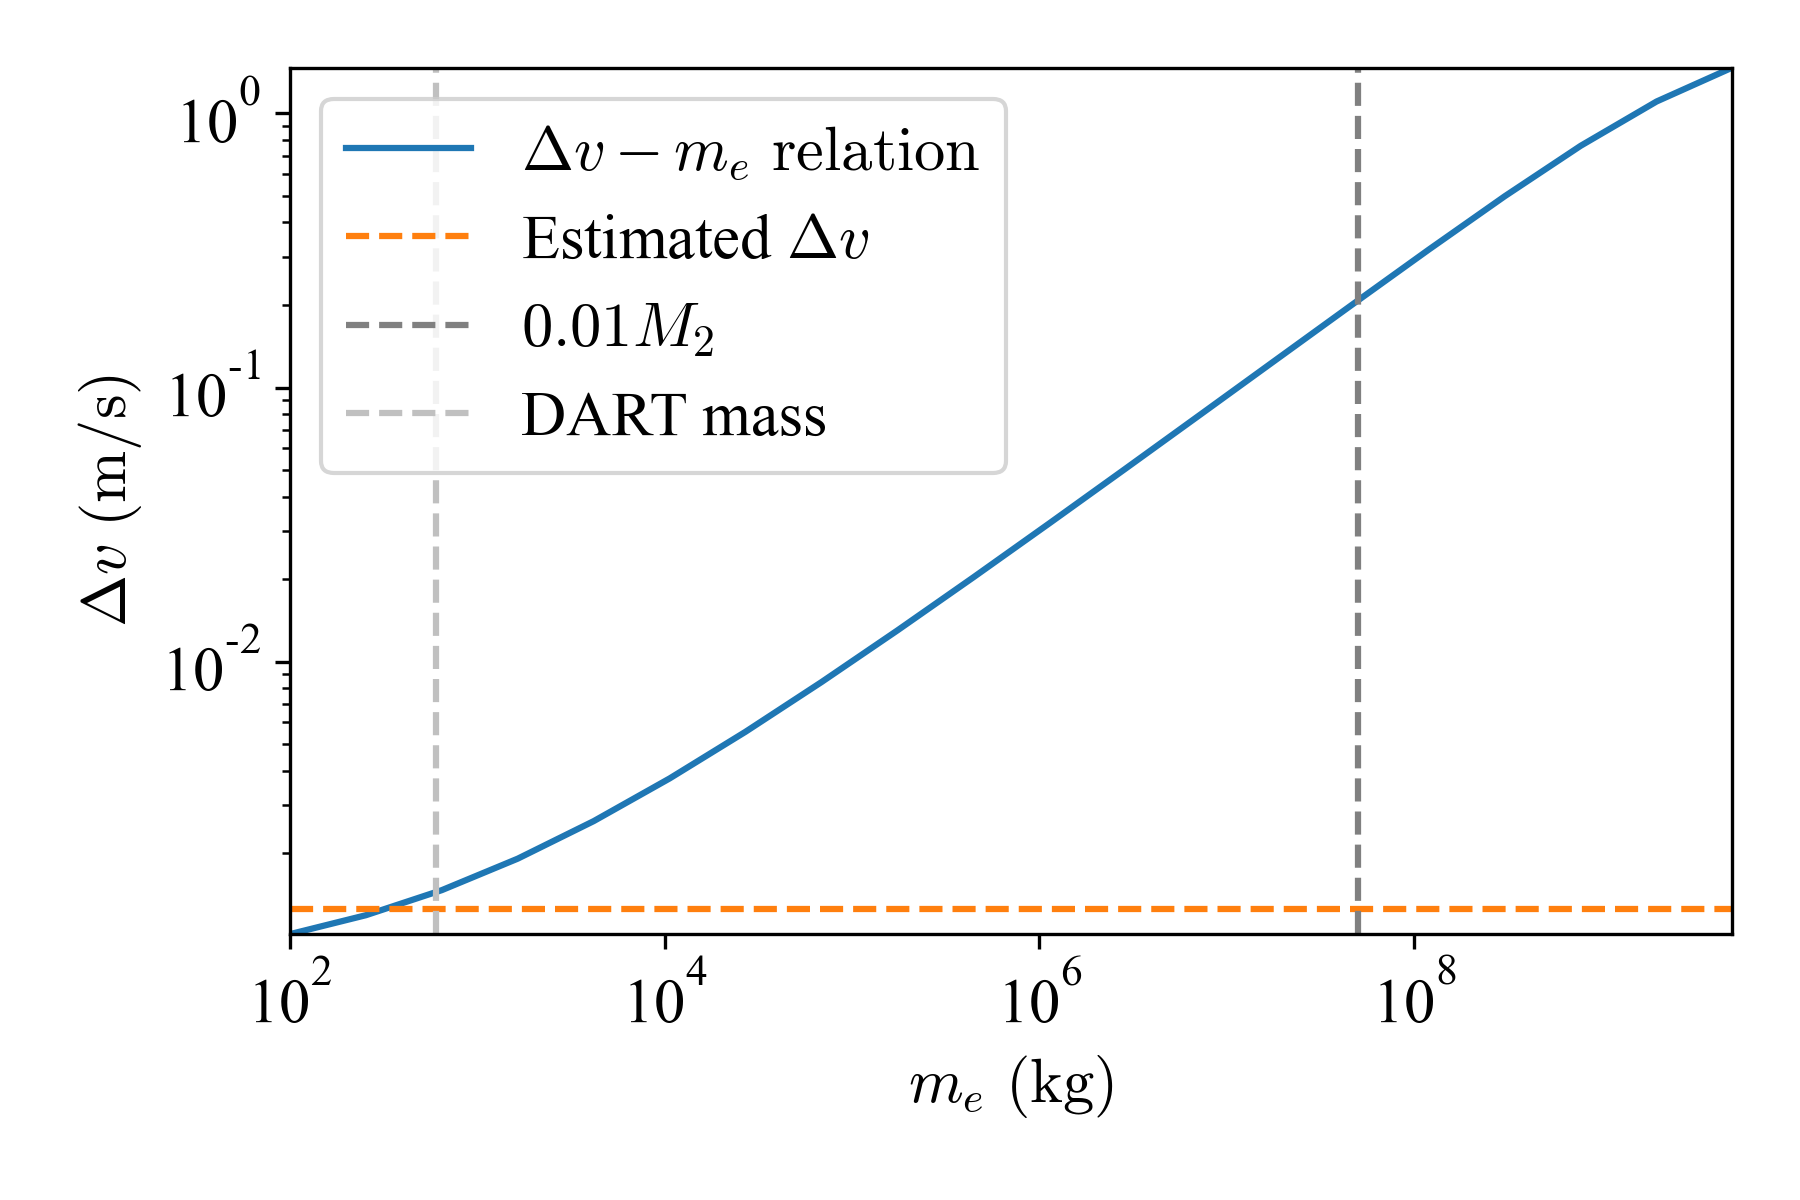
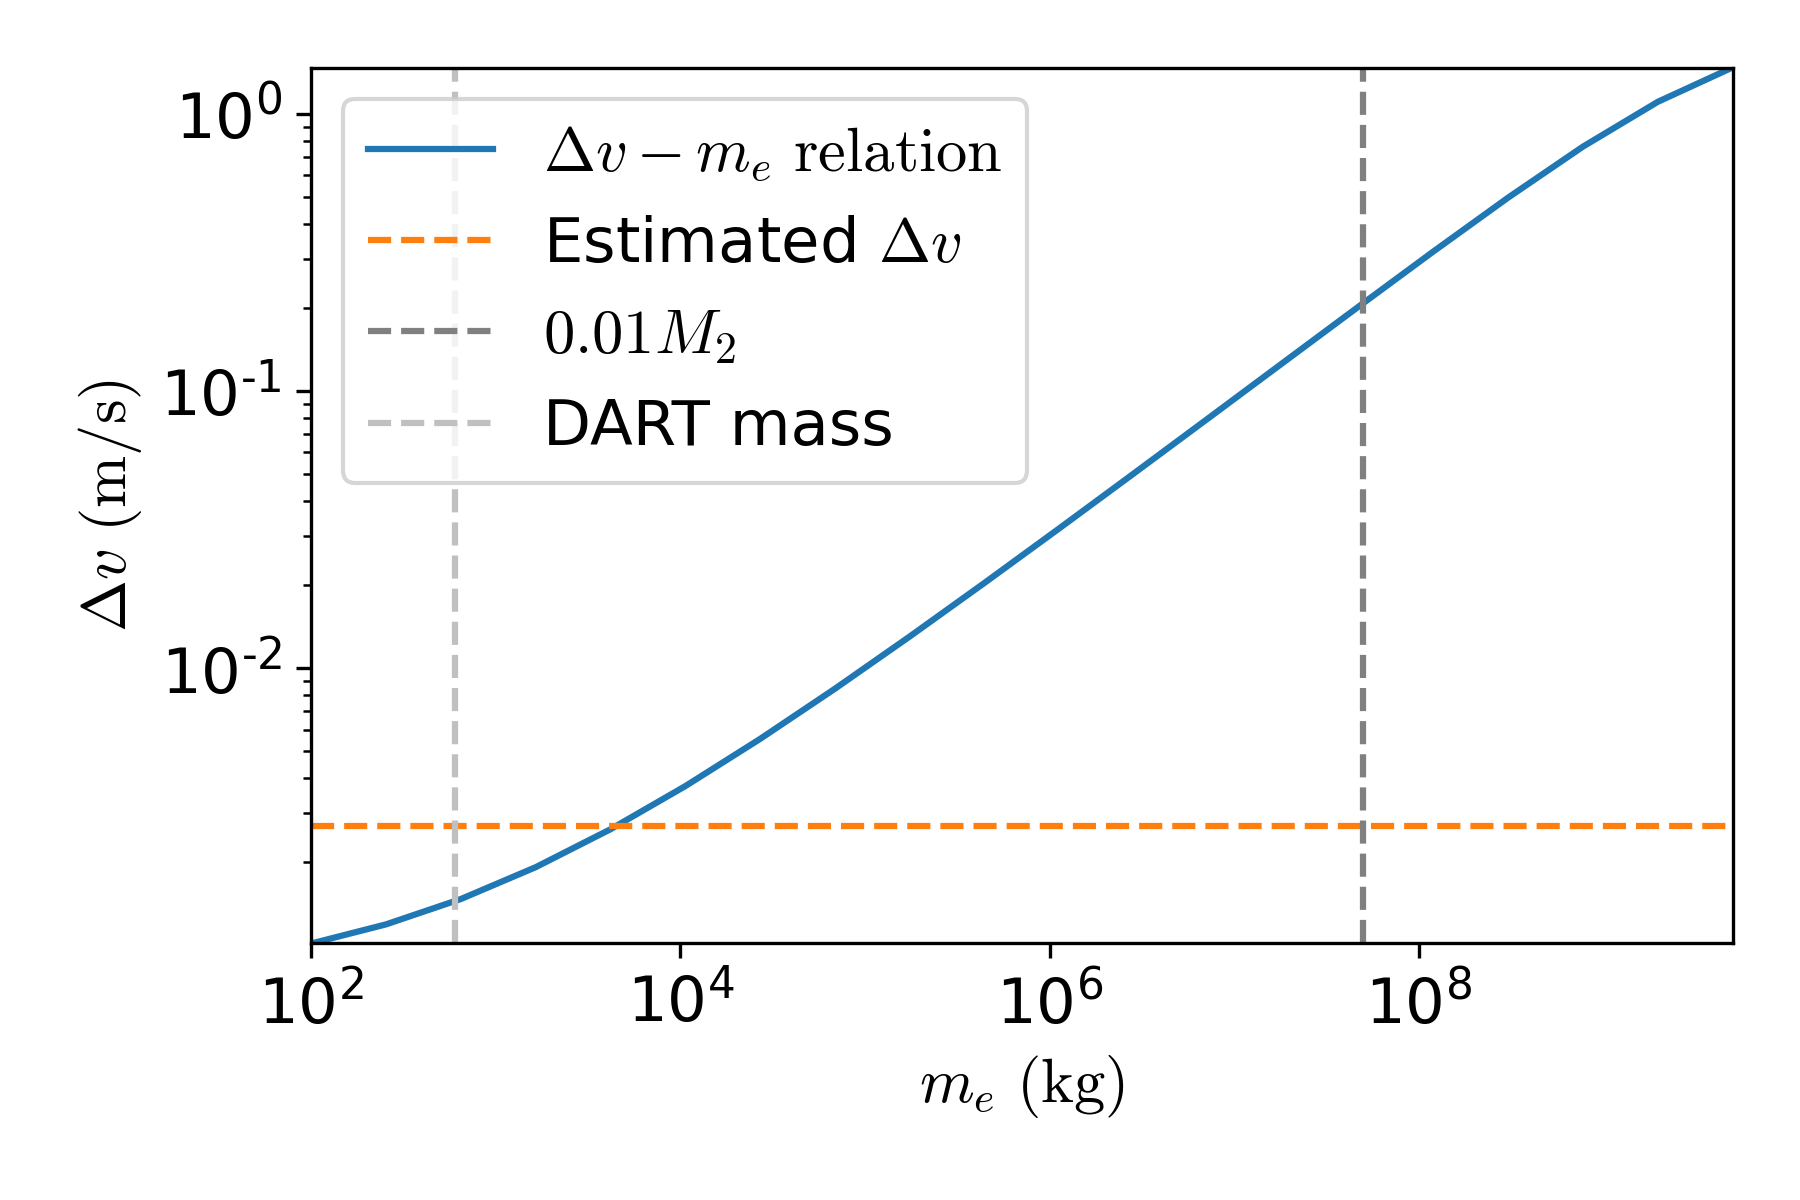
didymosMass

diff --git a/param.py b/param.py
@@ -5,7 +5,7 @@ G = 6.67e-11
 T0 = 11*3600 + 55*60 # second
 T1 = 11*3600 + 23*60 # second 
 #T1 = T0 - 73
-M1 = 5.27e10 # kg
+M1 = 5.27e11 # kg
 M2 = 5e9 # kg
 
 vD = 6000 # m/s
